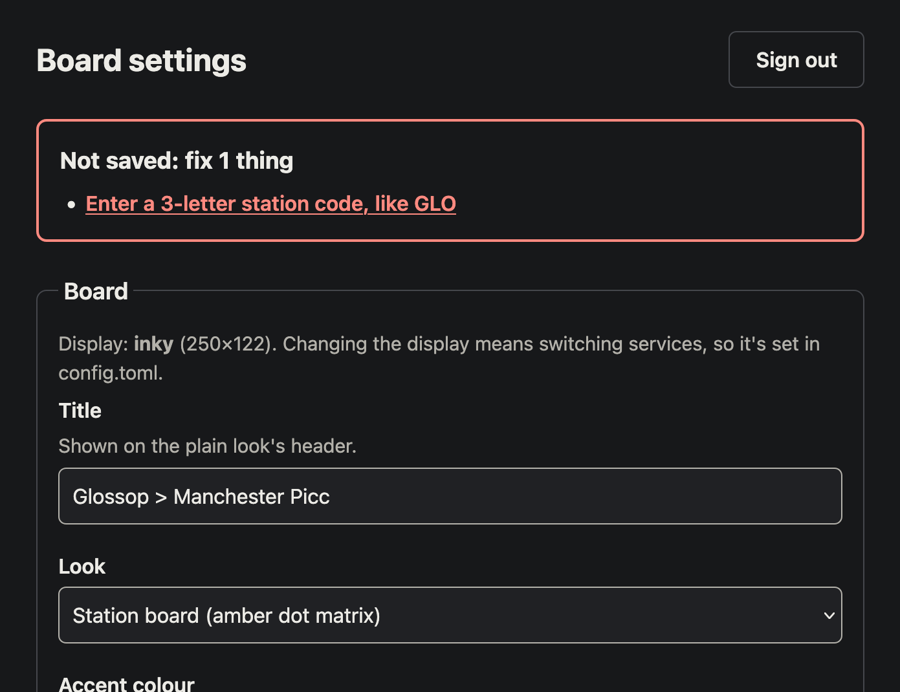
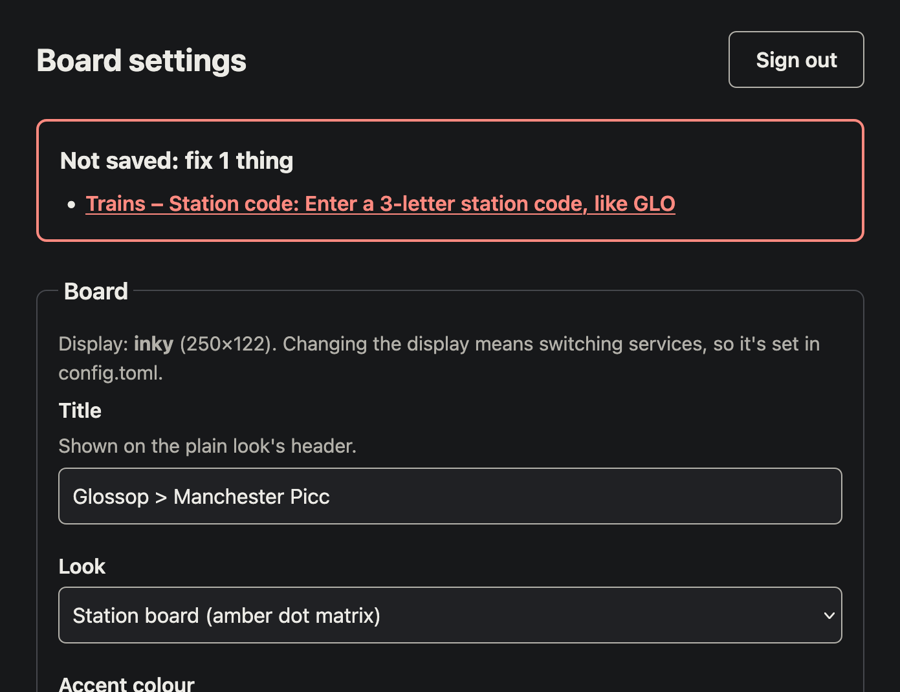
docs: bring the README and user guide up to date with the audit fixes
New board words (No info, Cancelled, NOT UPDATING), the HDMI screen in
the intro, the countdown on screens, departures dropping off once past,
overnight and wrapping windows, empty settings meaning none, accent
choices per look, the lockout and busy messages. Images re-rendered; the
bus page example now takes its wording from the same position it draws
(3 stops away, not 4).

Refs inky-departures-oz5.16

Changed region(s): [[0.0933, 0.2731, 0.7467, 0.3338], [0.9333, 0.0303, 0.9644, 0.0607], [0.8089, 0.0303, 0.84, 0.0607]]

diff --git a/docs/USER_GUIDE.md b/docs/USER_GUIDE.md
@@ -40,7 +40,7 @@ Each line reads: *which train*, *scheduled time*, *destination*, *status*.
 | `Exp 07:49` | Running late; expected to leave at 07:49. |
 | `Delayed` | Late, but no expected time yet. |
 | `Cancelled`, on a highlighted bar | It isn't running. |
-| `-` | No information about this train yet. |
+| `No info` | No information about this train yet. |
 | `Leave by 07:05` | Set off at 07:05 to walk to the station and catch the train above it. It sits under the first train you can still reach, so if the 1st is too soon, it moves down to the 2nd. |
 
 **Buses (bottom half)**
@@ -65,7 +65,7 @@ Each line reads: *route*, *stop*, *destination*, *when to leave*, *when it goes*
 
 ### The plain look
 
-The same information in black on white, with red highlights. Someone may have switched to it on the settings page.
+The same information in black on white, with red highlights. The words are the same as the station board look; only where some of them sit differs. Someone may have switched to it on the settings page.
 
 ![The plain look on the Inky pHAT](guide/phat-plain.png)
 
@@ -75,10 +75,9 @@ The differences:
 |---|---|
 | `Upd 07:03` in the top bar | `UPDATED 07:03` at the bottom |
 | `Leave 07:05 (07:12)` next to TRAINS: leave at 07:05 for the 07:12 | `Leave by 07:05` under the train |
-| `+7` in red: 7 minutes late | `Exp 07:49` |
-| `CANC` on a black bar | `Cancelled` |
-| `?` | `-` |
-| `! STALE` in red next to TRAINS or BUSES | `NOT UPDATING: …` |
+| `+7` in the accent colour: 7 minutes late | `Exp 07:49` |
+| `Cancelled` on a black bar | `Cancelled` on a highlighted bar |
+| `! NOT UPDATING` in the accent colour, next to TRAINS or BUSES | `NOT UPDATING: …` at the bottom |
 
 The plain look shows 3 trains and 2 buses.
 
@@ -134,7 +133,9 @@ The settings page works from any phone or laptop on the home network.
 
 ![The settings page](guide/settings-page.png)
 
-If something isn't right, nothing is saved. A box at the top lists the problems; click one to jump to its field, where the error is shown in words.
+If something isn't right, nothing is saved. A box at the top lists the problems, each named by section and field (for example *Trains – Station code*); click one to jump to it, where the error is shown in words.
+
+What you save replaces what's in `config.toml`, including emptying a box: clearing *Only trains calling at* really does show every train again.
 
 ### What you can change
 
@@ -142,41 +143,42 @@ If something isn't right, nothing is saved. A box at the top lists the problems;
 
 - **Title:** shown in the plain look's top bar.
 - **Look:** station board or plain.
-- **Accent colour:** the look's own, yellow/amber, or red.
+- **Accent colour:** the look's own (amber for the station board, red for plain), or another that stays readable on the look's background. A colour too faint on the background isn't offered.
 - **Rotation:** if the display is mounted upside down (or, for the screen, on its side).
 - **Least minutes between redraws:** e-paper only. Lower means fresher but more wear and flicker; 2 is a good balance.
 
 **Trains**
 
 - **Station code:** 3 letters, `GLO` for Glossop.
-- **Only trains calling at:** for example `MAN`, so only trains to Manchester show.
+- **Only trains calling at:** for example `MAN`, so only trains to Manchester show. Empty shows every train.
 - **Trains shown**, **Check every (minutes)**, and **Say "not updating" after (minutes)**.
-- **When to check:** one window per line, written like `Mon-Fri 06:30-09:30`. Days can be `Mon-Sun`, `Sat,Sun`, `Mon-Fri` and so on.
-- **Walk to the station (minutes):** used for the leave time.
+- **When to check:** one window per line, written like `Mon-Fri 06:30-09:30`. Days can be `Mon-Sun`, `Sat,Sun`, `Mon-Fri`, or wrap round the week like `Fri-Mon`. A window can run past midnight: `Fri 22:00-01:00` runs from Friday night into Saturday morning.
+- **Walk to the station (minutes):** used for the leave time. Empty means no leave time.
 
 **Buses**
 
 - **Stops:** one per line, written `LABEL = ATCO code`, for example `A = 1000DGHS0900`. The label is the letter shown on the board. Find stop codes on [bustimes.org](https://bustimes.org): the code is the last part of a stop page's address.
-- **Only buses heading to:** optional, comma-separated, for example `Ashton, Hyde`.
+- **Only buses heading to:** optional, comma-separated, for example `Ashton, Hyde`. Empty shows every bus.
 - **Buses shown**, **Check every (minutes)**, **Say "not updating" after (minutes)**.
 - **Most hits a day:** a hard limit on bus lookups. The free TransportAPI plan allows 30 a day, and each check costs one per stop.
 - **When to check:** as for trains.
-- **Walk to each stop:** one per line (`A = 7`), or one number for every stop.
+- **Walk to each stop:** one per line (`A = 7`), or one number for every stop. Empty means no leave times.
 
 **Keys**
 
-Keys are never shown, only whether each one is set. To replace a key, paste the new one; leave a box empty to keep the current one.
+Keys are never shown, only whether each one is set. To replace a key, paste the new one; leave a box empty to keep the current one. The key boxes are ordinary text boxes, so you can check what you pasted before saving.
 
 ### When changes take effect
 
-- **E-paper:** within a minute or two (it never redraws more often than every 2 minutes).
+- **E-paper:** within a few minutes (it never redraws more often than every 2 minutes). Changing the look, accent colour or rotation redraws it too.
 - **HDMI screen:** within a second. If you change the rotation or accent colour, the screen restarts itself, which takes about 10 seconds.
 
 Two things aren't on the page and are changed in `config.toml` on the Pi: the type of display, and the stop list for the bus position page.
 
 ### If you can't sign in
 
-- **"That password isn't right":** after 5 wrong tries, that device is locked out for 15 minutes.
+- **"That password isn't right":** after 5 wrong tries, that device is locked out for 15 minutes and sees "Too many attempts. Try again in 15 minutes."
+- **"Busy, try again in a moment":** a few sign-ins were being checked at once; try again.
 - **"Set a password first":** no password has been set yet; see [Setting up the settings page](#the-settings-page).
 - **Forgotten password:** set a new one on the Pi (same command as when setting it up).
 - **"Forbidden":** the page only answers devices on the home network, using its local name or address. It won't work over mobile data or a VPN to elsewhere.

diff --git a/README.md b/README.md
@@ -1,6 +1,6 @@
 # inky-departures
 
-Glossop train and bus departure board for a Raspberry Pi with a four-colour Inky pHAT (250x122) or a Waveshare 10.85" e-Paper (G) (1360x480).
+Glossop train and bus departure board for a Raspberry Pi with a four-colour Inky pHAT (250x122), a Waveshare 10.85" e-Paper (G) (1360x480), or a Waveshare 7.9" HDMI screen (1280x400).
 
 ![Board preview](docs/preview.png)
 
@@ -8,11 +8,11 @@ New here? The [user guide](docs/USER_GUIDE.md) explains what everything on the b
 
 - **Trains:** National Rail Darwin, via the Rail Data Marketplace. Free, polled every 2 minutes.
 - **Buses:** TransportAPI. Free plan is 30 hits/day, so polling is limited to set windows, with a hard daily budget.
-- The panel takes about 20 s to refresh, so it redraws only when what it shows changes, and never more than once every 2 minutes. `Upd HH:MM` is when the board last changed; if a feed stops arriving, its section shows `! STALE`.
+- An e-paper panel takes about 20 s to refresh, so it redraws only when what it shows changes, and never more than once every 2 minutes. `Updated HH:MM` (`Upd HH:MM` in the plain look) is when the board last changed; if a feed stops arriving, the board says `Not updating`. Departures from an earlier fetch drop off once their time has passed, even outside the polling windows.
 - Two looks, set with `theme`:
   - `sign` (default): an old-school station departure board, amber dot-matrix on black, using the panel's yellow. `1st`/`2nd`/`3rd` trains, `Exp 07:49`, `Cancelled`, and a `Leave by` line under the train you can still catch. The dot-matrix font is drawn for this project at one pixel per LED.
-  - `plain`: white board, bold type, red accent.
-- Meaning is always in text (`Exp 07:49`, `Cancelled`, `+4`, `sch`, `Not updating`). Colour only reinforces it, so the board works for colour-blind viewers and on a mono panel (the sign look falls back to white on black).
+  - `plain`: white board, bold type, red accent. Same words, except the leave time sits in the header (`Leave 07:05 (07:12)`) and late trains show `+7`.
+- Meaning is always in text (`Exp 07:49`, `Cancelled`, `No info`, `+4`, `sch`, `Not updating`). Colour only reinforces it, so the board works for colour-blind viewers and on a mono panel (the sign look falls back to white on black).
 
 ## 1. Get access
 
@@ -37,7 +37,7 @@ Station codes: Glossop is `GLO`, Manchester Piccadilly is `MAN`.
 
 ### Walking times
 
-Trains show when to leave for the next one you can still reach (`Leave by 07:05` under that train on the sign look, `Leave 07:05 (07:12)` in the plain header). Each bus row has its own `leave 07:17`. It's a clock time, not a countdown, so it only changes when the next reachable departure changes. Set `walk_minutes` under `[train]`, and per stop label under `[bus.walk_minutes]`. To measure a route, ask the OpenStreetMap foot router:
+Trains show when to leave for the next one you can still reach (`Leave by 07:05` under that train on the sign look, `Leave 07:05 (07:12)` in the plain header). Each bus row has its own `leave 07:17`. On e-paper it's a clock time, not a countdown, so it only changes when the next reachable departure changes; the HDMI screen counts down instead (`Leave in 3 min`). Set `walk_minutes` under `[train]`, and per stop label under `[bus.walk_minutes]`. To measure a route, ask the OpenStreetMap foot router:
 
 ```
 https://routing.openstreetmap.de/routed-foot/table/v1/foot/HOME_LON,HOME_LAT;STOP_LON,STOP_LAT?sources=0
